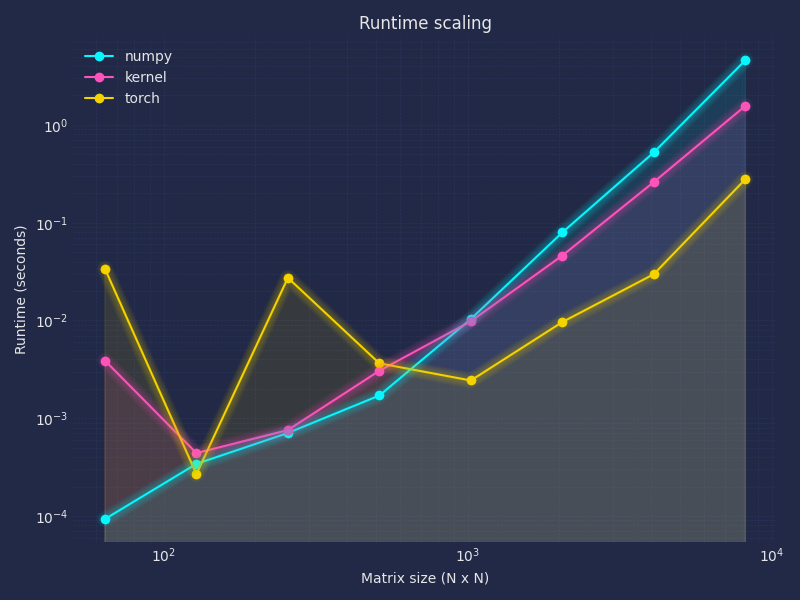
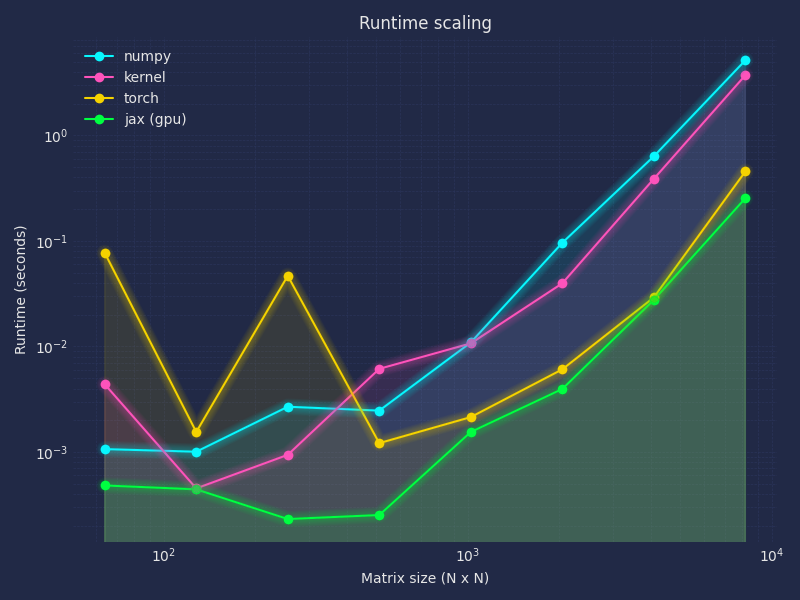
added jax

diff --git a/src/main.py b/src/main.py
@@ -5,6 +5,16 @@ import matplotlib.pyplot as plt
 from pathlib import Path
 from gpumat import GPUMatrix
 import mplcyberpunk
+import jax
+import jax.numpy as jnp
+
+JAX_GPU_DEVICE = None
+_JAX_MATMUL = None
+
+_JAX_GPU_DEVICES = [device for device in jax.devices() if device.platform == "gpu"]
+if _JAX_GPU_DEVICES:
+    JAX_GPU_DEVICE = _JAX_GPU_DEVICES[0]
+    _JAX_MATMUL = jax.jit(lambda a, b: jnp.matmul(a, b))
 
 
 def benchmark(N: int):
@@ -38,7 +48,19 @@ def benchmark(N: int):
     # print(f"torch: {t_torch:.4f} sec")
     # print(f"Time diff: {t_torch - t_kernel:.4f} sec")
 
-    return t_numpy, t_kernel, t_torch
+    t_jax = None
+    if _JAX_MATMUL is not None and JAX_GPU_DEVICE is not None:
+        A_jax = jax.device_put(A_np, JAX_GPU_DEVICE)
+        B_jax = jax.device_put(B_np, JAX_GPU_DEVICE)
+        _JAX_MATMUL(
+            A_jax, B_jax
+        ).block_until_ready()  # warm-up to exclude compilation time
+        start = time.perf_counter()
+        _JAX_MATMUL(A_jax, B_jax).block_until_ready()
+        end = time.perf_counter()
+        t_jax = end - start
+
+    return t_numpy, t_kernel, t_torch, t_jax
 
 
 if __name__ == "__main__":
@@ -46,18 +68,25 @@ if __name__ == "__main__":
     times_numpy = []
     times_kernel = []
     times_torch = []
+    times_jax = [] if _JAX_MATMUL is not None and JAX_GPU_DEVICE is not None else None
+    jax_sizes = [] if times_jax is not None else None
 
     for n in sizes:
-        t_np, t_kernel, t_torch = benchmark(n)
+        t_np, t_kernel, t_torch, t_jax = benchmark(n)
         times_numpy.append(t_np)
         times_kernel.append(t_kernel)
         times_torch.append(t_torch)
+        if times_jax is not None and t_jax is not None:
+            times_jax.append(t_jax)
+            jax_sizes.append(n)
 
     plt.style.use("cyberpunk")
     plt.figure(figsize=(8, 6))
     plt.plot(sizes, times_numpy, marker="o", label="numpy")
     plt.plot(sizes, times_kernel, marker="o", label="kernel")
     plt.plot(sizes, times_torch, marker="o", label="torch")
+    if times_jax:
+        plt.plot(jax_sizes, times_jax, marker="o", label="jax (gpu)")
     plt.xscale("log")
     plt.yscale("log")
     plt.xlabel("Matrix size (N x N)")
@@ -65,6 +94,7 @@ if __name__ == "__main__":
     plt.title("Runtime scaling")
     plt.grid(True, which="both", ls="--", lw=0.5)
     plt.legend()
+
 
     mplcyberpunk.add_glow_effects()
     plt.tight_layout()
